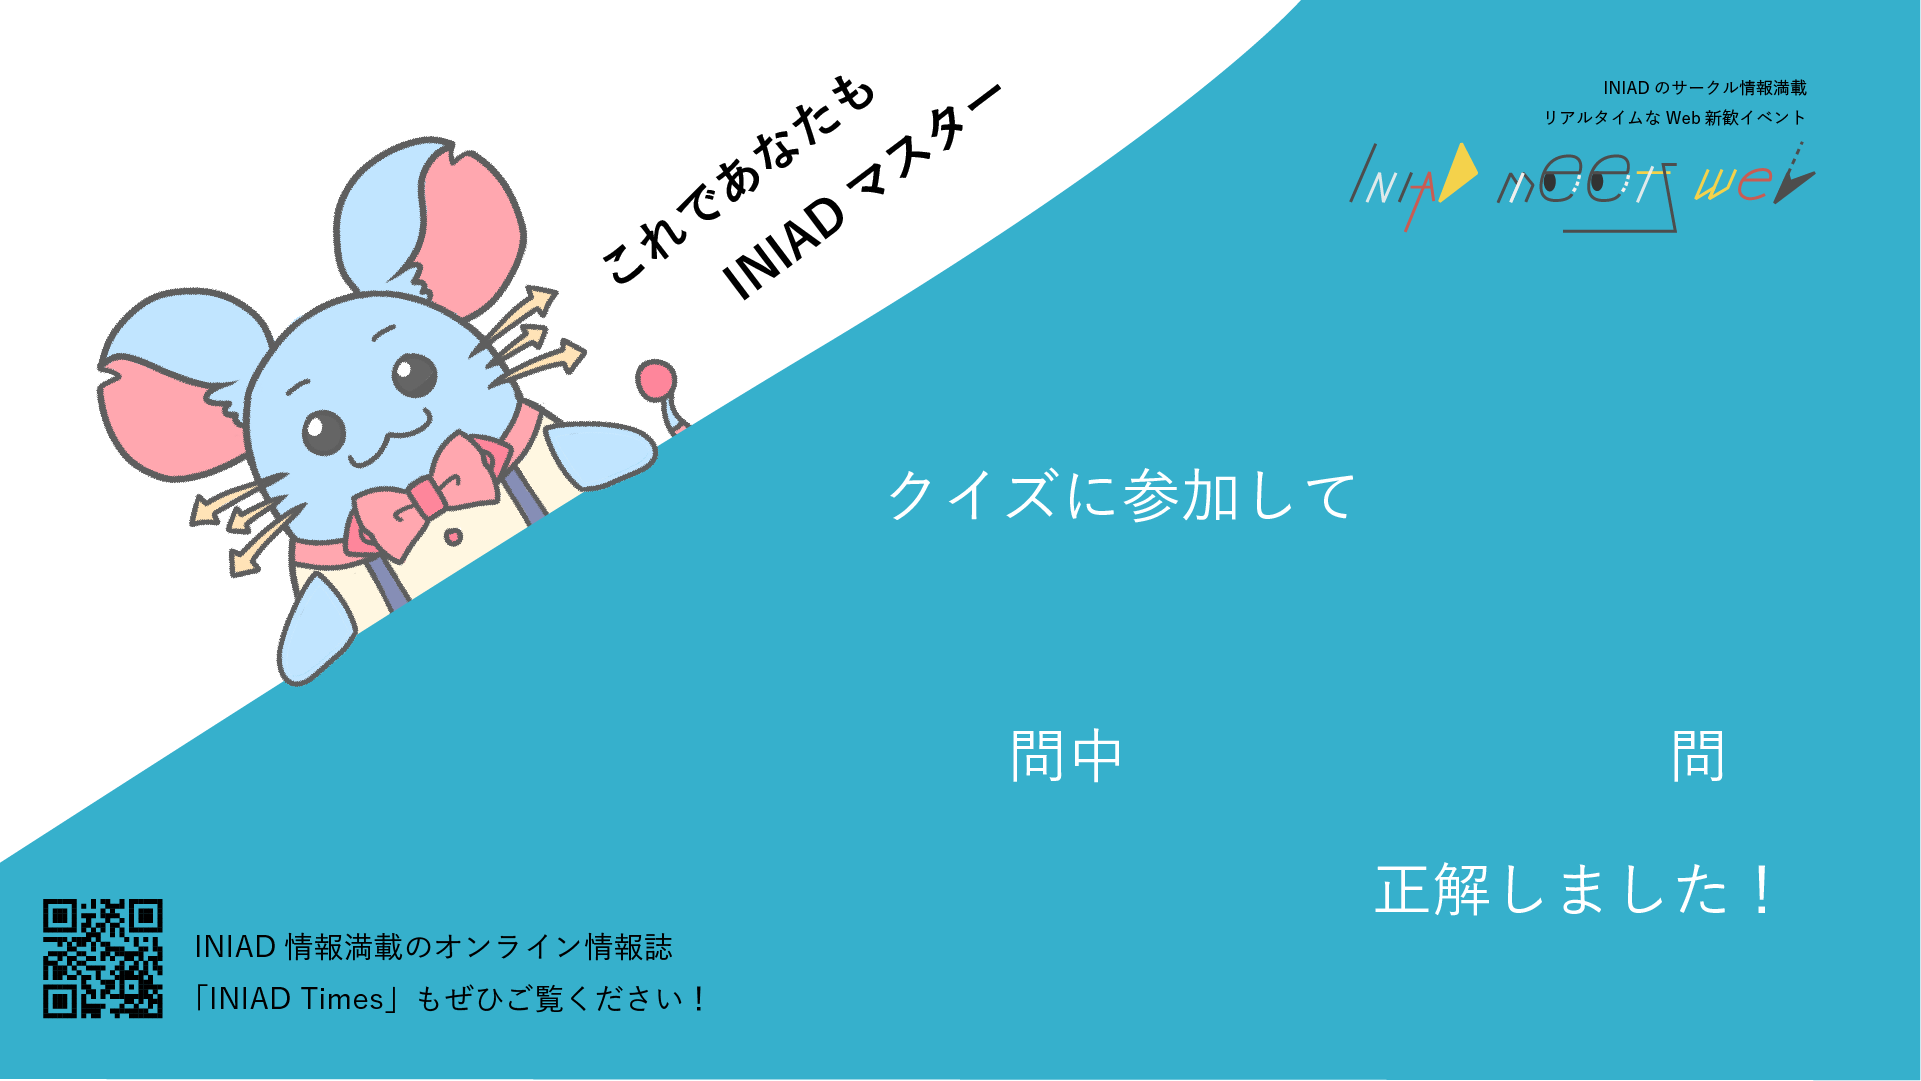
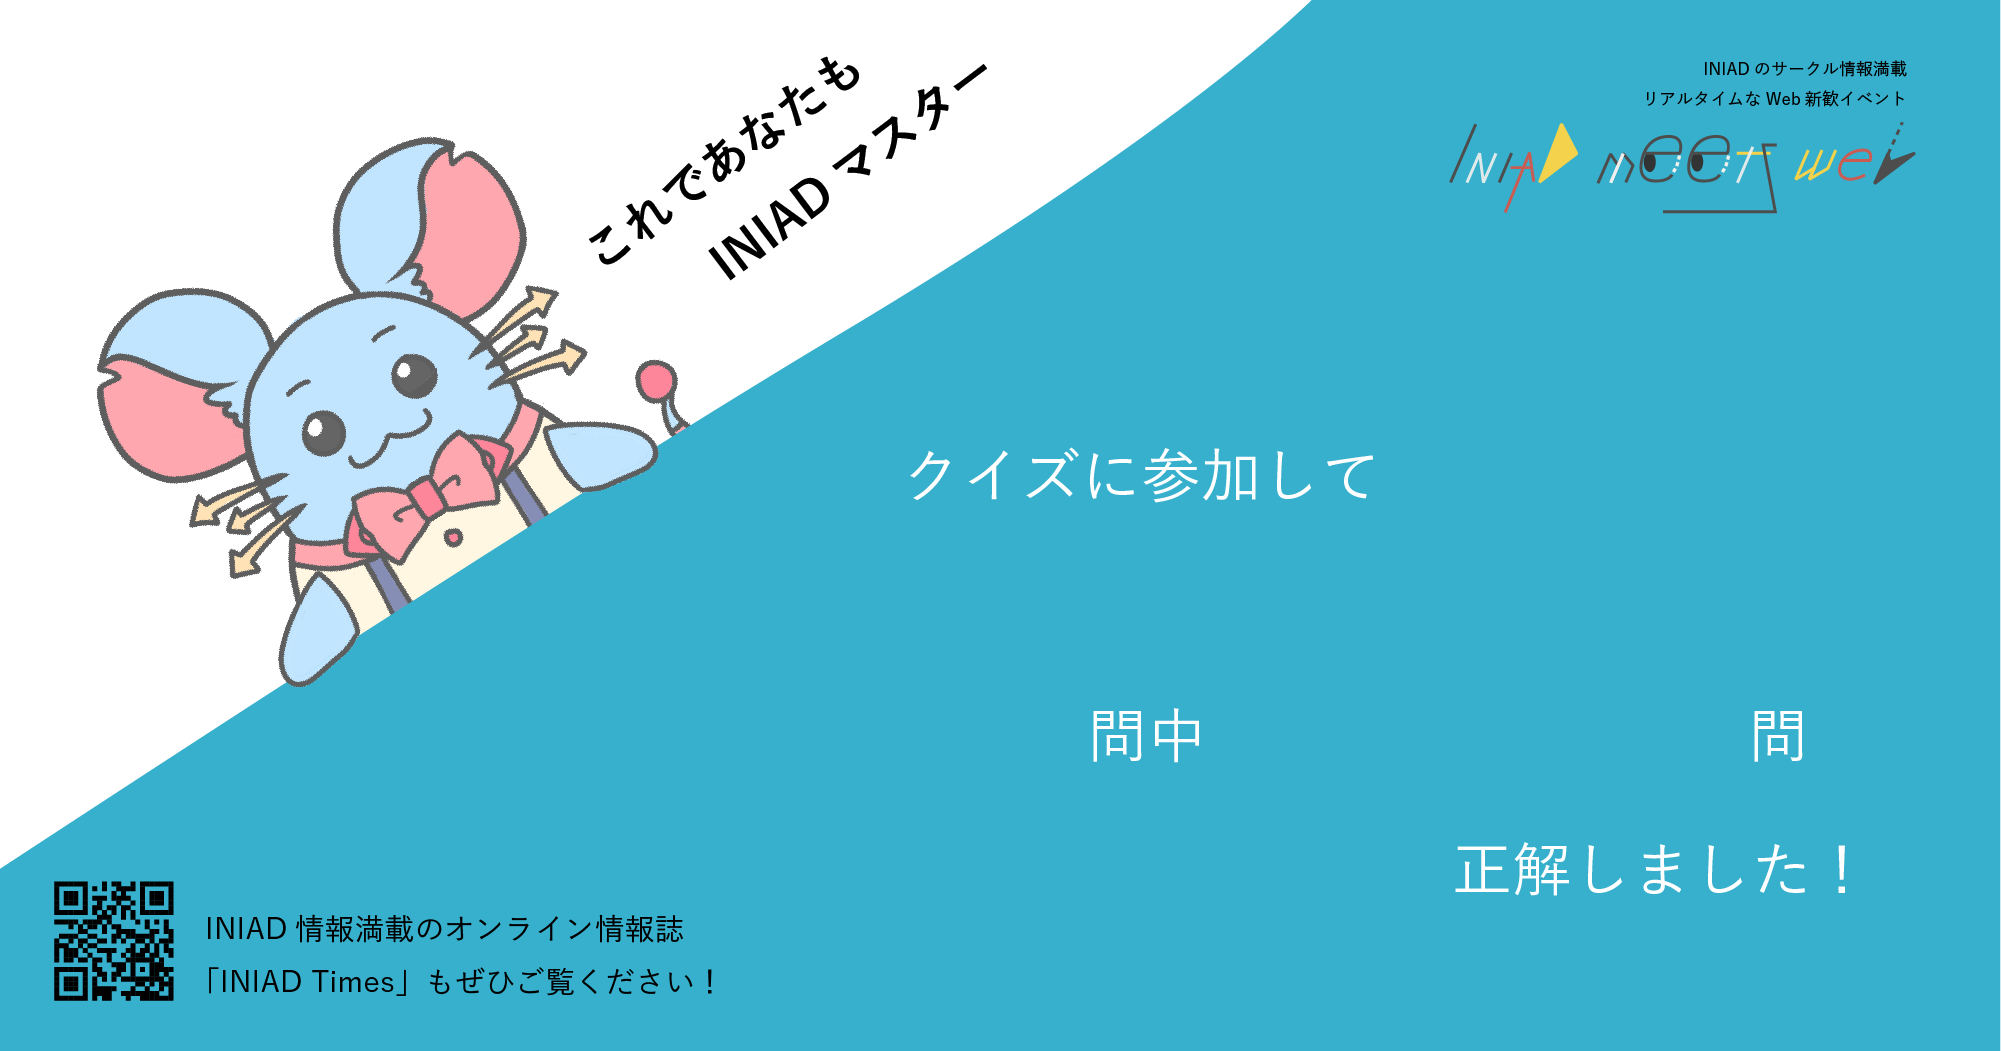
Twitter Card向けに縦横比を変更

diff --git a/server/meets/shareimage.py b/server/meets/shareimage.py
@@ -19,7 +19,7 @@ def add_text_to_image(img, text, font_size, top, left, max_length=740):
 
 def make_share_image(score, full):
     base_img = Image.open(os.path.join(settings.BASE_DIR, "meets/quiz_snsshare.png")).copy()
-    base_img = add_text_to_image(base_img, str(full), 72, 703, 960)
-    img = add_text_to_image(base_img, str(score), 180, 590, 1549)
+    base_img = add_text_to_image(base_img, str(full), 70, 686, 1034)
+    img = add_text_to_image(base_img, str(score), 180, 570, 1600)
 
     return img
